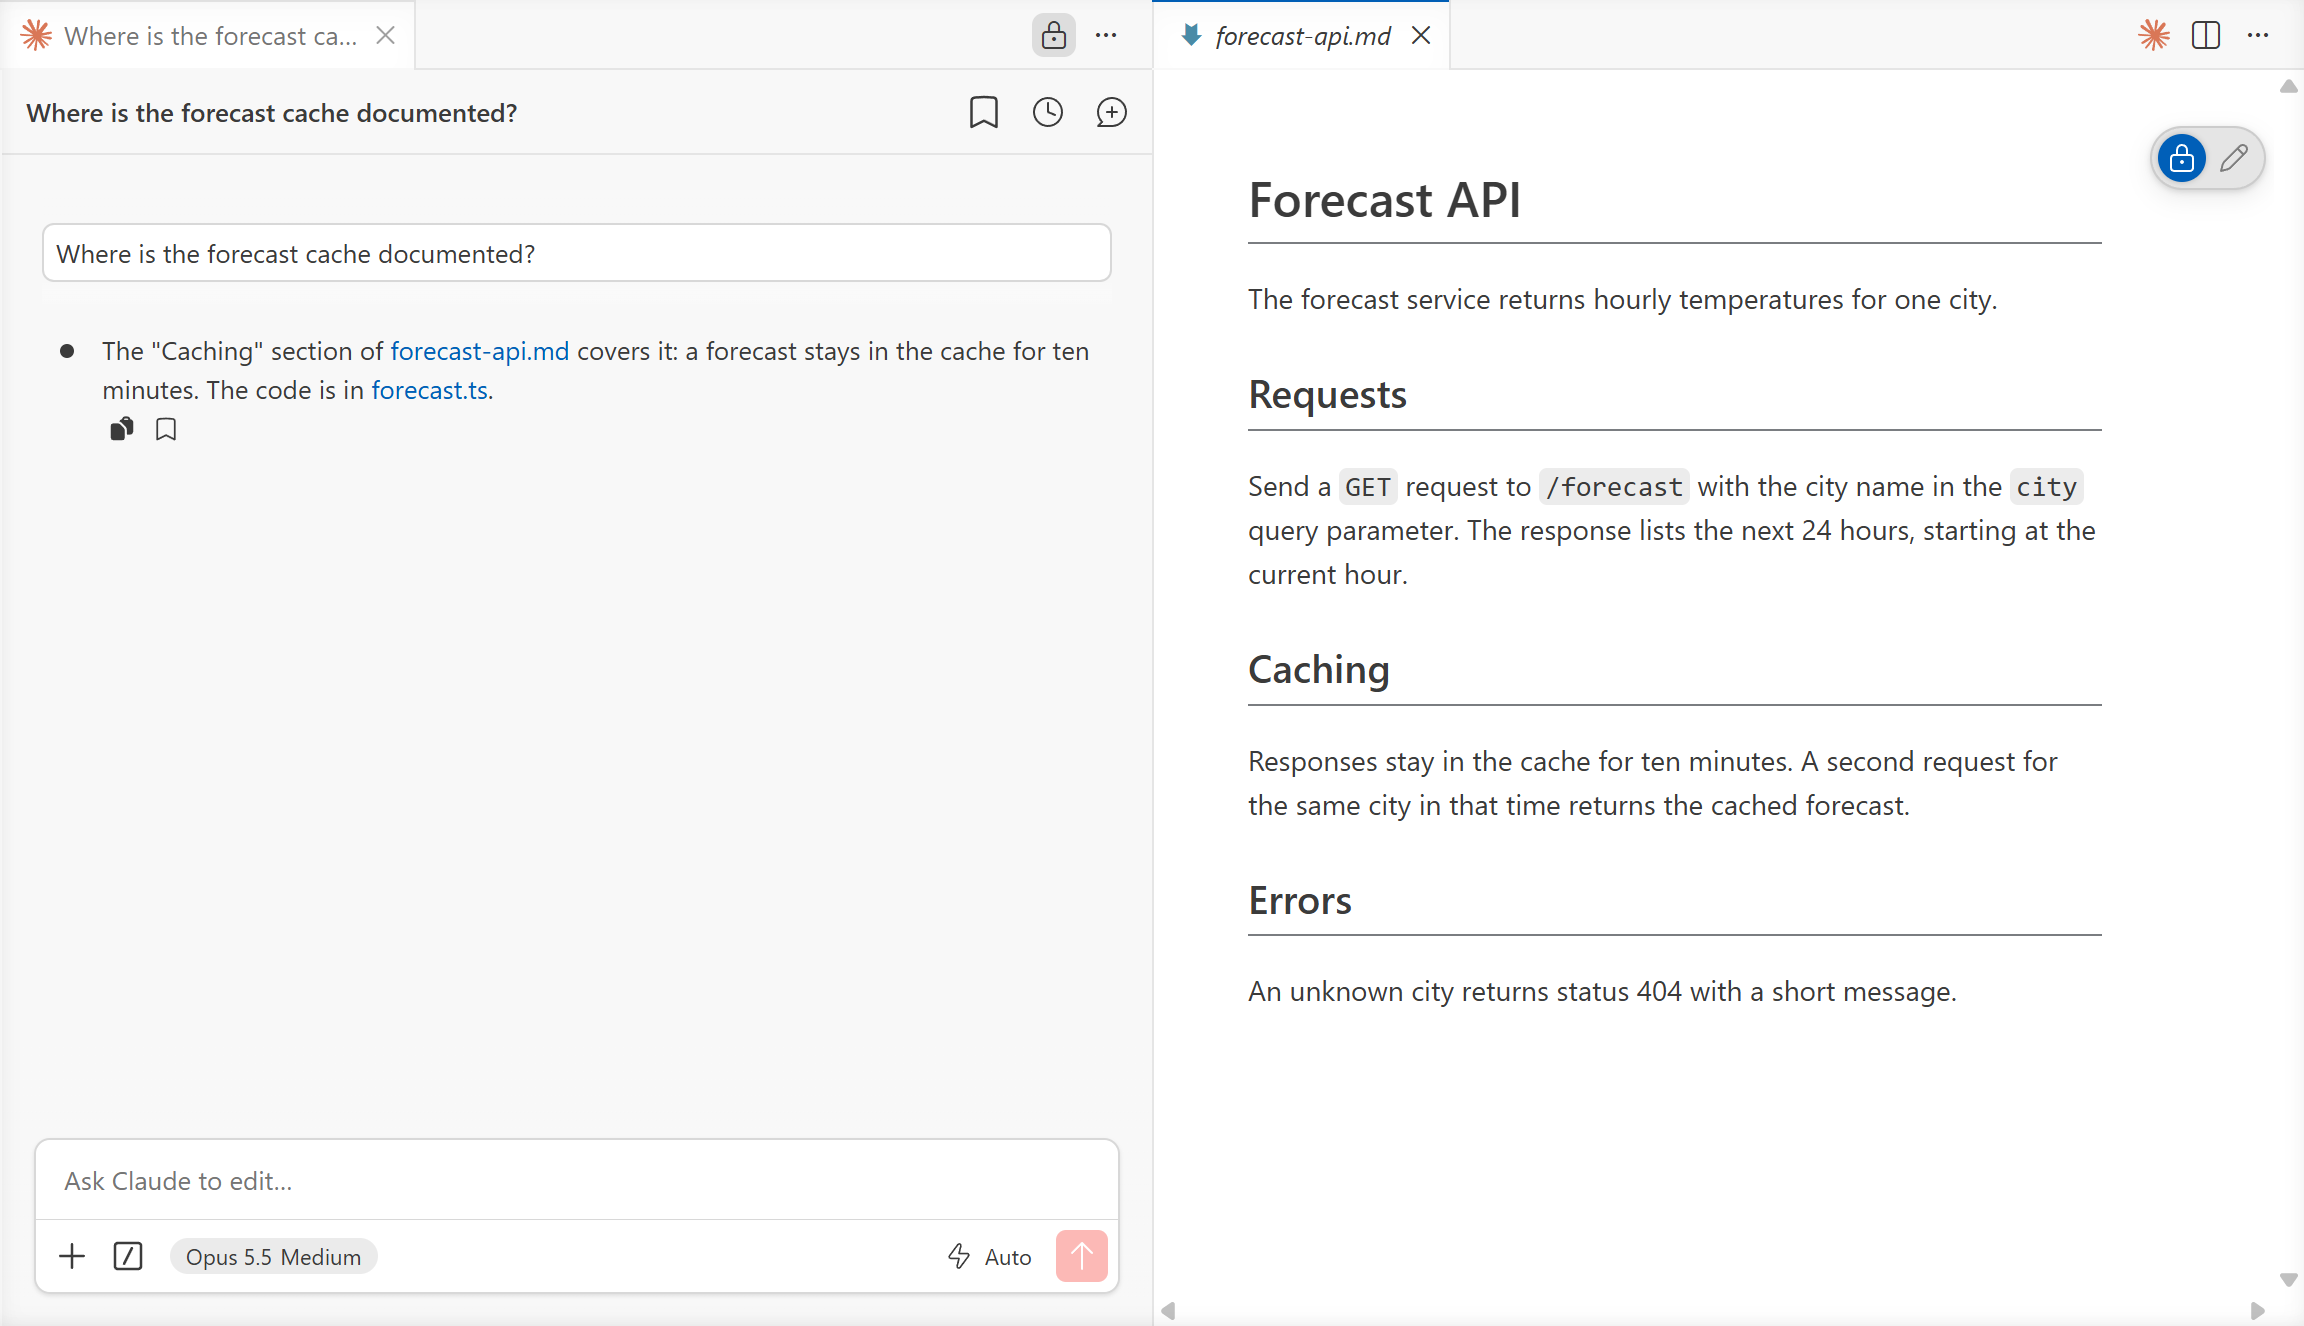
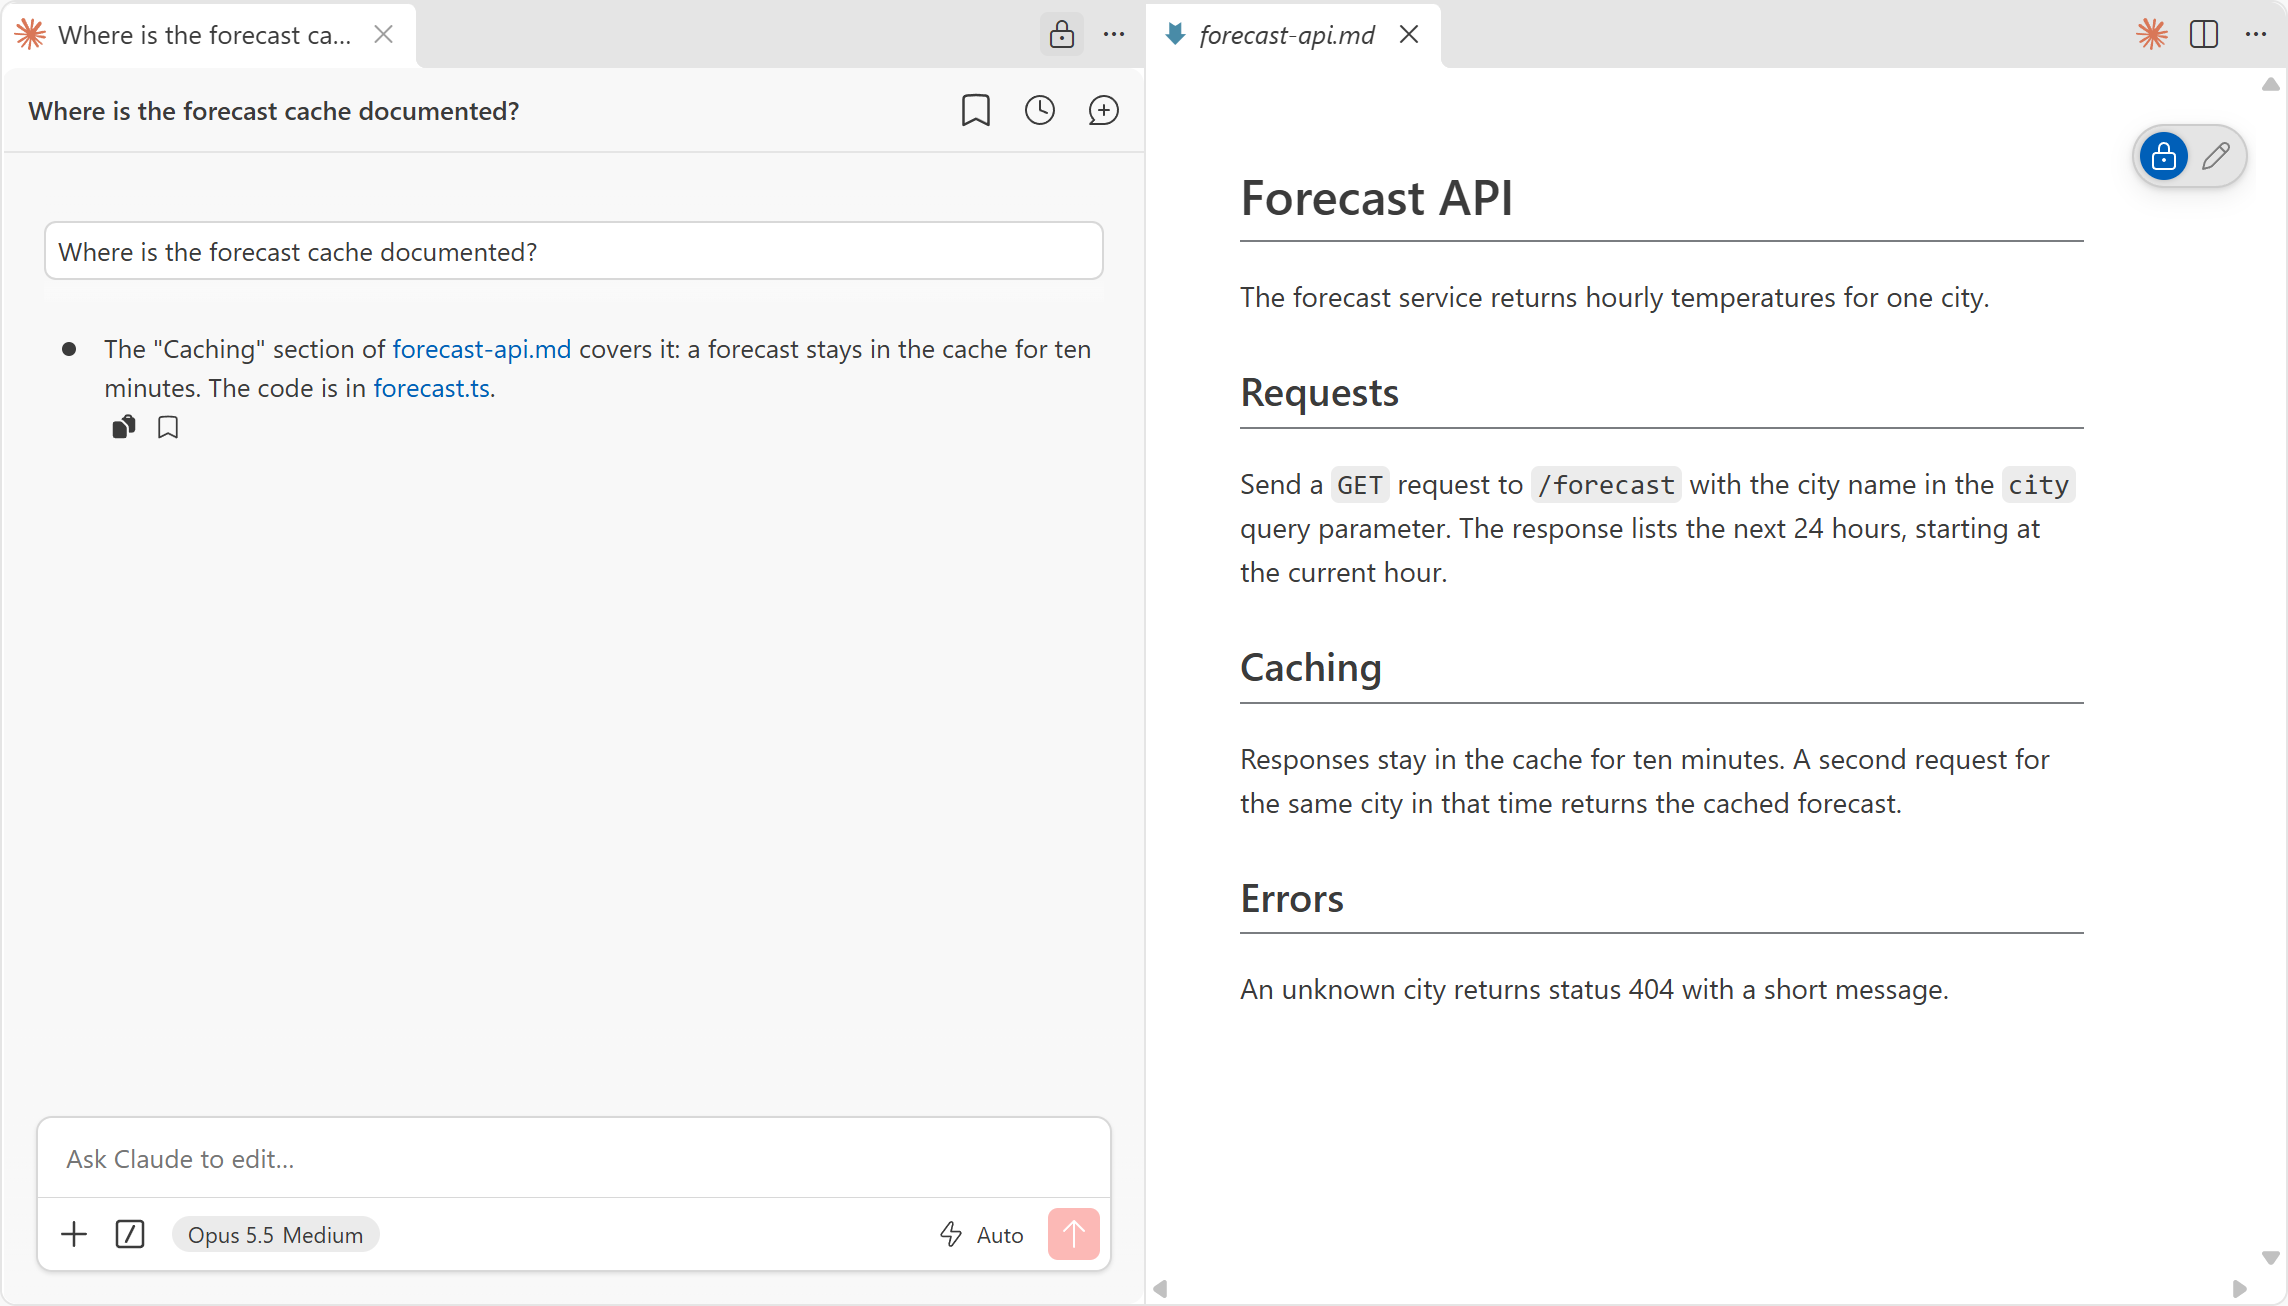
Update the MCP SDK, @types/vscode and Playwright; require VS Code 1.140 (#6)
The MCP SDK moves from 1.30.1 to 1.32.1. It fixes GHSA-6qxp-vccf-f47h, a
high-severity flaw in the SDK's OAuth client. `npm audit` now reports no
vulnerabilities.

`@types/vscode` moves to 1.140.0, so `engines.vscode` and the stand-in
extension need `^1.140.0`. VS Code 1.140 is now the minimum, and the
end-to-end test and the screenshot script run it. Playwright moves to
1.64.1. The version is 0.5.0.

The 1.140 window makes each screenshot 16 px narrower and 20 px shorter.
The README images are regenerated, and the social preview's crops and
highlight boxes move by the same amount.

🤖 Generated with [Claude Code](https://claude.com/claude-code)

---------

diff --git a/test/run.ts b/test/run.ts
@@ -1,5 +1,5 @@
 // End-to-end check in an isolated VS Code, on Windows only: it needs test/window-helper.ps1,
-// which drives the windows through Win32 and UI Automation. Downloads VS Code 1.138.0 into
+// which drives the windows through Win32 and UI Automation. Downloads VS Code 1.140.0 into
 // .vscode-test/, starts it with its own user-data and extensions folders and
 // this extension loaded from source, then talks to the bridge through the Claude Code
 // plugin's launcher and prompt hook, with the command lines its manifests give Claude Code
@@ -78,7 +78,7 @@ const page = createServer((_req, res) => {
 await new Promise<void>(r => page.listen(0, '127.0.0.1', r));
 const pageUrl = `http://127.0.0.1:${(page.address() as AddressInfo).port}/`;
 
-const exe = await downloadAndUnzipVSCode({ version: '1.138.0', cachePath: join(root, '.vscode-test') });
+const exe = await downloadAndUnzipVSCode({ version: '1.140.0', cachePath: join(root, '.vscode-test') });
 // Drop variables inherited from a VS Code or Claude Code parent so the test
 // instance cannot mistake itself for a CLI call into the user's running VS Code.
 const env: NodeJS.ProcessEnv = {};

diff --git a/scripts/social-preview.html b/scripts/social-preview.html
@@ -74,10 +74,10 @@
 	</div>
 	<div class="stage">
 		<div class="deck">
-			<div class="card browser" data-src="browser-shared-page.png" data-crop="930 0 974 560" data-width="240" data-ring="1440 88 252 46"></div>
-			<div class="card markdown" data-src="markdown-selection-chip.png" data-crop="40 610 960 280" data-width="250"></div>
+			<div class="card browser" data-src="browser-shared-page.png" data-crop="914 0 974 560" data-width="240" data-ring="1424 88 252 46"></div>
+			<div class="card markdown" data-src="markdown-selection-chip.png" data-crop="40 590 960 280" data-width="250"></div>
 			<svg class="link" viewBox="0 0 640 320"><path d="M 470 224 C 500 228, 506 236, 494 247" fill="none" stroke="#ec8a63" stroke-width="1.6" stroke-dasharray="3 3" stroke-linecap="round"/></svg>
-			<div class="card chip" data-src="markdown-selection-chip.png" data-crop="1187 1140 1083 152" data-width="272" data-ring="1572 1232 232 46"></div>
+			<div class="card chip" data-src="markdown-selection-chip.png" data-crop="1171 1120 1083 152" data-width="272" data-ring="1556 1212 232 46"></div>
 		</div>
 	</div>
 	<script>

diff --git a/scripts/generate-screenshots.ts b/scripts/generate-screenshots.ts
@@ -201,7 +201,7 @@ for (const args of [['plugin', 'marketplace', 'add', root], ['plugin', 'install'
 }
 
 const inputs = hashInputs(root); // Before packaging, so the record matches the code the shots show.
-const vscodeVersion = '1.138.0';
+const vscodeVersion = '1.140.0';
 const exe = await downloadAndUnzipVSCode({ version: vscodeVersion, cachePath: join(root, '.vscode-test') });
 // Installed from a VSIX, as users get it: --extensionDevelopmentPath would put "[Extension Development Host]" in the title.
 const vsix = join(run, 'vscode-bridge-for-claude-code.vsix');

diff --git a/CLAUDE.md b/CLAUDE.md
@@ -82,7 +82,7 @@ the selection chip and the CLI over `/ide`, and open a chat link to a `.md` file
   `test/harness.ts`, and start no VS Code.
 - The end-to-end test runs on Windows only, as CI does, because `test/window-helper.ps1` drives
   the VS Code windows through Win32 and UI Automation. On another platform it stops at once with
-  a message. It downloads VS Code 1.138.0 into `.vscode-test/`. It starts it with its own user
+  a message. It downloads VS Code 1.140.0 into `.vscode-test/`. It starts it with its own user
   data, extensions, discovery folder and Claude Code config, and calls the tools through the
   plugin's launcher and prompt hook, with the command lines from the plugin's manifests. The user's
   own VS Code and Claude Code config stay untouched.

diff --git a/.claude/skills/install-vscode-bridge-for-claude-code/SKILL.md b/.claude/skills/install-vscode-bridge-for-claude-code/SKILL.md
@@ -24,7 +24,7 @@ The bridge is on in every VS Code window by default. To turn it off in one works
 
 ## Install
 
-1. **Check the tools.** Run `node --version` (22.18 or later), `code --version` (1.138 or
+1. **Check the tools.** Run `node --version` (22.18 or later), `code --version` (1.140 or
    later) and `claude --version`. If `code` is missing, the user can add it to the PATH
    with the VS Code command **Shell Command: Install 'code' command in PATH** (macOS), or
    install the VSIX by hand as step 2 says.

diff --git a/README.md b/README.md
@@ -80,7 +80,7 @@ To keep Claude from closing the window, for example:
 ## Install
 
 The bridge has two parts: a VS Code extension, and a Claude Code plugin that connects Claude Code
-to it. You need VS Code 1.138 or later, Node 22.18 or later, and Claude Code. The bridge is not on
+to it. You need VS Code 1.140 or later, Node 22.18 or later, and Claude Code. The bridge is not on
 the Marketplace.
 
 ### From a release

diff --git a/CHANGELOG.md b/CHANGELOG.md
@@ -1,5 +1,15 @@
 # Changelog
 
+## [0.5.0] - 2026-10-14
+
+### Changed
+
+- VS Code 1.140 or later is required.
+
+### Security
+
+- Update the MCP SDK to 1.32.1, which fixes a high-severity flaw in its OAuth client.
+
 ## [0.4.0] - 2026-10-14
 
 ### Changed
